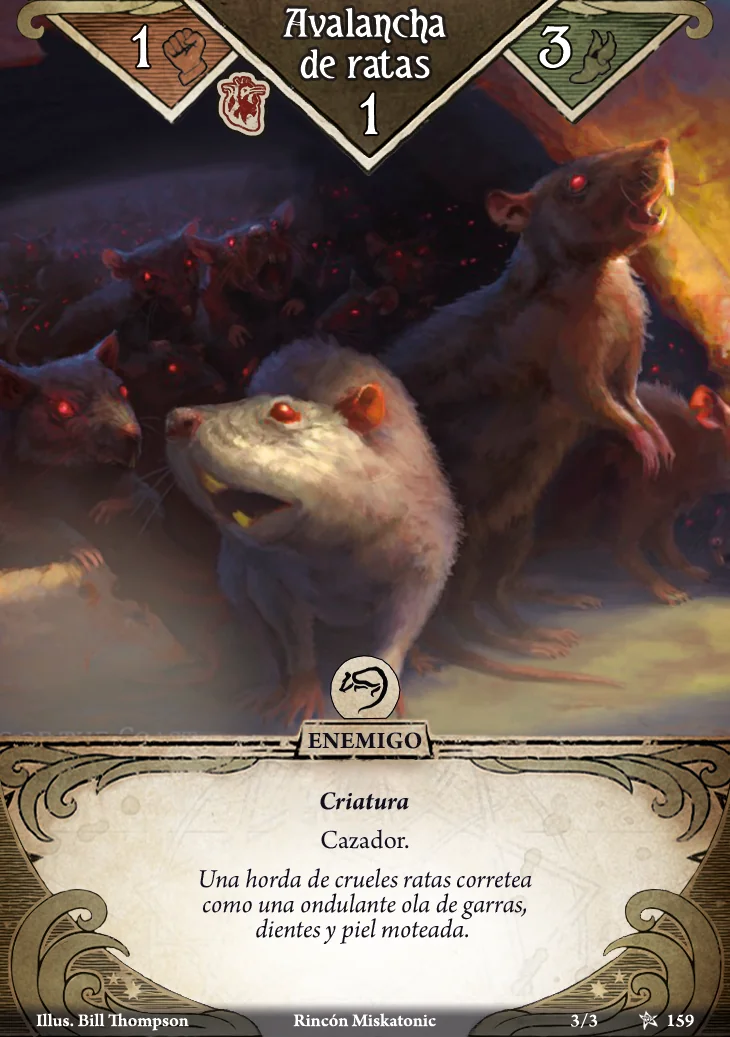
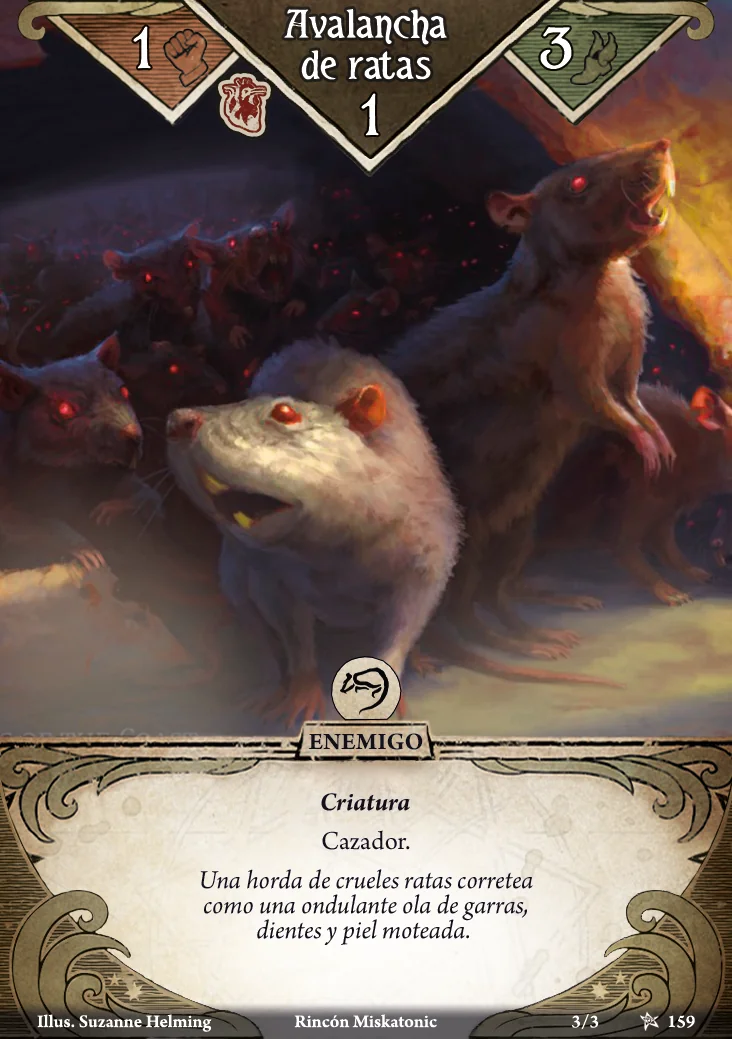
Errata rats and refactor

diff --git a/sw.js b/sw.js
@@ -15,14 +15,15 @@
    BUMP SW_VERSION on every release (see tools/other/instructions.md §7): it renames the shell
    cache, so activate() drops the old one and the new shell/text is served. */
 
-const SW_VERSION = '1.6.0';
+const SW_VERSION = '1.6.1';
 const SHELL = 'tla-shell-' + SW_VERSION;   // shell + read/downloaded text, replaced each version
 // Images are cache-first and, being immutable per URL, are kept across versions — a plain
 // SW_VERSION bump does NOT drop them, so offline images survive text-only releases. Bump
 // MEDIA_VERSION instead whenever a cached image's CONTENT changes at the SAME URL (a fixed card
 // or back): it renames the media cache, so activate() drops the stale one and the corrected
-// images are re-fetched fresh. (Raised to 2 in 1.2.2, after the Scorched Earth + back fixes.)
-const MEDIA_VERSION = '3';
+// images are re-fetched fresh. (Raised to 2 in 1.2.2, after the Scorched Earth + back fixes;
+// to 4 in 1.6.1, after the Carcosa "Avalancha de ratas" artist-credit fix.)
+const MEDIA_VERSION = '4';
 const MEDIA = 'tla-media-' + MEDIA_VERSION;
 
 function isMedia(path) {
